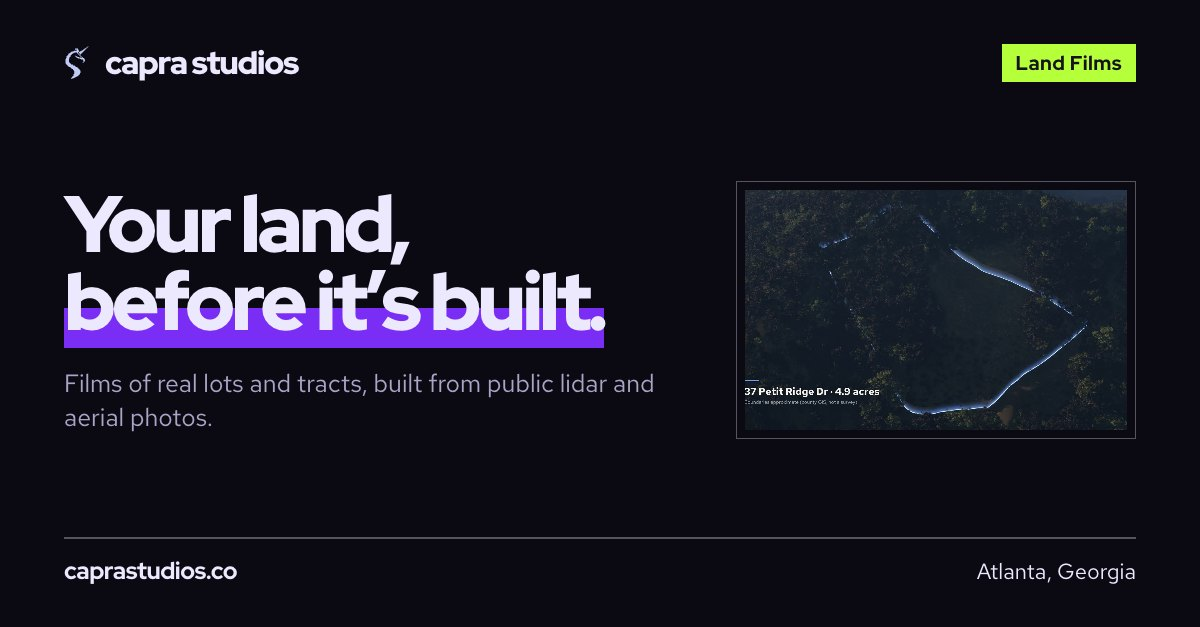
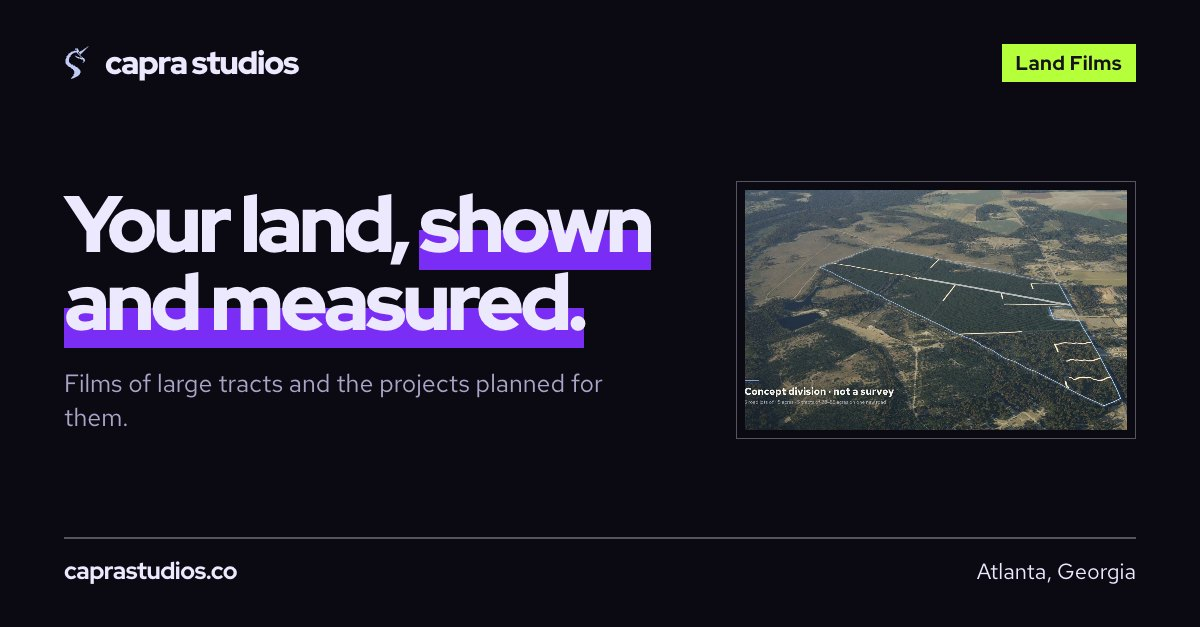
Rewrite the land films copy for large tracts, development sites and large projects
The Land Films page, the homepage column and section, the Work band, the facts page and the assistant's knowledge now sell to land and timber investors, developers of communities, commercial and industrial sites, and large projects such as data centers. The single lot becomes one line with its price. The Buckeye Road timber tract leads the pictures and the films.

Changed region(s): [[0.6167, 0.303, 0.9558, 0.697], [0.0308, 0.303, 0.555, 0.5758], [0.0617, 0.5758, 0.555, 0.697]]

diff --git a/land-films.html b/land-films.html
@@ -4,19 +4,19 @@
 <meta charset="utf-8">
 <meta name="viewport" content="width=device-width,initial-scale=1">
 <meta name="theme-color" content="#f3f1ea">
-<title>Land Films: 3D Lot &amp; Tract Films from Lidar — Capra Studios</title>
-<meta name="description" content="Films of real lots and tracts built from public lidar and aerial photos: the lot line on the ground, the land in contours, a measured view and a concept home.">
+<title>Land Films: Tracts, Developments &amp; Data Centers — Capra Studios</title>
+<meta name="description" content="Films of large tracts and the projects planned for them, built on the real ground from public lidar: timber tracts, development sites and data center campuses.">
 <link rel="canonical" href="https://bookee2.github.io/Caprastudios/land-films.html">
 <meta property="og:type" content="website">
 <meta property="og:site_name" content="Capra Studios">
-<meta property="og:title" content="Land Films: 3D Lot &amp; Tract Films from Lidar — Capra Studios">
-<meta property="og:description" content="Films of real lots and tracts built from public lidar and aerial photos: the lot line on the ground, the land in contours, a measured view and a concept home.">
+<meta property="og:title" content="Land Films: Tracts, Developments &amp; Data Centers — Capra Studios">
+<meta property="og:description" content="Films of large tracts and the projects planned for them, built on the real ground from public lidar: timber tracts, development sites and data center campuses.">
 <meta property="og:url" content="https://bookee2.github.io/Caprastudios/land-films.html">
 <meta property="og:locale" content="en_US">
 <meta property="og:image" content="https://bookee2.github.io/Caprastudios/assets/share/land-films.jpg">
 <meta property="og:image:width" content="1200">
 <meta property="og:image:height" content="627">
-<meta property="og:image:alt" content="Capra Studios land films: your land, before it’s built">
+<meta property="og:image:alt" content="Capra Studios land films: your land, shown and measured">
 <meta name="twitter:card" content="summary_large_image">
 <link rel="icon" href="assets/brand/favicon.svg">
 <link rel="apple-touch-icon" href="assets/brand/apple-touch-icon.png">
@@ -54,8 +54,8 @@
   },
   {
    "@type": "Service",
-   "name": "Land films for real estate",
-   "description": "Films of real lots and tracts built from public lidar and aerial photos, with the lot line, contours, a measured view study and labelled concept homes.",
+   "name": "Land films for tracts, developments and large projects",
+   "description": "Films of large tracts and planned projects built on the real ground from public lidar and aerial photos: property lines, tree cover, divisions, build-outs to scale, earthwork and line-of-sight studies.",
    "url": "https://bookee2.github.io/Caprastudios/land-films.html",
    "areaServed": "United States",
    "provider": {
@@ -66,7 +66,7 @@
    "offers": [
     {
      "@type": "Offer",
-     "name": "Lot film",
+     "name": "Single lot film",
      "price": "950",
      "priceCurrency": "USD"
     }
@@ -80,7 +80,7 @@
      "name": "How long does a film take?",
      "acceptedAnswer": {
       "@type": "Answer",
-      "text": "About a week from the address to a reviewed film. Most of that is checking the facts and your review; the film itself is built from data we can download the same day."
+      "text": "About a week for a single tract, from the parcel to a reviewed film. Most of that is checking the facts and your review. A development or a campus with a build-out takes longer, and we agree the timing before we start."
      }
     },
     {
@@ -88,23 +88,39 @@
      "name": "How accurate is it?",
      "acceptedAnswer": {
       "@type": "Answer",
-      "text": "The ground comes from USGS lidar at one metre and the trees are the real ones the lidar measured. Lot lines come from the county’s parcel map, which is approximate and not a survey, and the film says so on screen. Every figure carries the date of its data."
+      "text": "The ground comes from USGS lidar at one metre and the trees are the real ones the lidar measured. Property lines come from the county’s parcel map, which is approximate and not a survey, unless you send your survey. Every figure carries the date of its data. A film is an illustration: it is not a survey, a timber cruise or an appraisal."
      }
     },
     {
      "@type": "Question",
-     "name": "What if the county’s lines disagree with the listing?",
+     "name": "What if the county’s lines disagree with our records?",
      "acceptedAnswer": {
       "@type": "Answer",
-      "text": "It happens. We check the parcel against the listing before we build, quote the listing’s acreage and say that boundaries are approximate. If the difference is large we ask you before going further."
+      "text": "It happens. We draw from your survey when you send one. Otherwise we use the county’s parcel map, quote your acreage, say that boundaries are approximate and ask you before going further if the difference is large."
      }
     },
     {
      "@type": "Question",
-     "name": "Can it show a house that is not there?",
+     "name": "Can it show what is not built yet?",
      "acceptedAnswer": {
       "@type": "Answer",
-      "text": "Yes, as a concept home, and it is labelled as an artist’s rendering for every second it is on screen. The same goes for a concept division of a larger tract."
+      "text": "Yes. Buildings, roads and a division of lots that do not exist yet are labelled a concept, or illustrative, for every second they are on screen. If you send the real plan we build from it. If the layout is ours, the film says so."
+     }
+    },
+    {
+     "@type": "Question",
+     "name": "Can the location stay confidential?",
+     "acceptedAnswer": {
+      "@type": "Answer",
+      "text": "Yes. The tract itself stays real, but place names, road names and landmarks are left out, the surroundings are generalized so they cannot be matched to a map, and location data is stripped from the files. The tract’s own outline is real, so someone who already knows the property could recognize it."
+     }
+    },
+    {
+     "@type": "Question",
+     "name": "Can it carry our brand and disclosures?",
+     "acceptedAnswer": {
+      "@type": "Answer",
+      "text": "Yes. Your name, logo and colours go on the film, and any disclosure text goes on screen word for word. We do not review legal or securities compliance; that is for your counsel."
      }
     },
     {
@@ -120,7 +136,7 @@
      "name": "Who owns the film?",
      "acceptedAnswer": {
       "@type": "Answer",
-      "text": "You do, for the listing it was made for. We ask to show it as an example of our work."
+      "text": "You do. We show it as an example of our work only if you agree."
      }
     }
    ]
@@ -148,32 +164,38 @@
 </header>
 <main id="main" class="room films-page">
 <section class="page-top shell films-top">
-<div><h1>Your land, before it’s built.</h1>
-<p class="lead">Films of real lots and tracts, built from public lidar and aerial photos: the lot line on the ground, the land in contours, and the view from where a house would sit.</p>
-<p class="note">These are studio films made from real listings. We are taking our first commissions.</p>
-<a class="button" href="#parcel">Send a parcel ↓</a></div>
-<figure class="plate"><img src="assets/films/petit-ridge-blue-hour.jpg" width="1400" height="788" loading="lazy" decoding="async" alt="A concept cabin at blue hour with its lights on, on a wooded mountain lot"><figcaption><b>A concept home at blue hour</b><span>37 Petit Ridge Dr, Big Canoe, Georgia. An artist’s rendering, not an existing structure.</span></figcaption></figure>
+<div><h1>Your land, shown and measured.</h1>
+<p class="lead">Films of large tracts and the projects planned for them, built on the real ground from public lidar and aerial photos. For land and timber investors, developers of communities, commercial and industrial sites, and large projects such as data centers.</p>
+<p class="note">The two films on this page are studio films made from real listings.</p>
+<a class="button" href="#parcel">Send a tract ↓</a></div>
+<figure class="plate"><img src="assets/films/buckeye-road-concept-division.jpg" width="1400" height="788" loading="lazy" decoding="async" alt="A large timber tract seen from the air, outlined, with a concept division into lots and tracts drawn on it"><figcaption><b>A 268-acre tract, outlined and divided</b><span>Buckeye Road Tract, Laurens County, Georgia. The division is a concept, not a survey.</span></figcaption></figure>
+</section>
+
+<section class="block shell" id="kinds" aria-labelledby="kinds-title">
+<div class="block-head"><h2 id="kinds-title">Three kinds of land.</h2><p>Each film is built for the decision it has to support: an investment, an approval or a sale.</p></div>
+<ol class="rows compact" aria-label="Who the films are for">
+<li style="--c:var(--ribbon)"><h3><span>Timber and investment tracts</span></h3><div><p>For funds, owners and the brokers who sell for them. The tract outlined, its tree cover by type, road frontage and access, water, and a division drawn from your survey or labelled as a concept.</p><p>A tract can stay anonymous, with your brand and your disclosures on screen as you wrote them.</p></div></li>
+<li style="--c:var(--ribbon)"><h3><span>Communities, commercial and industrial sites</span></h3><div><p>For developers and builders. The site as it stands today, then cleared, graded and built out to scale on the real ground: roads, pads, buildings and phases.</p></div></li>
+<li style="--c:var(--ribbon)"><h3><span>Data centers and other large projects</span></h3><div><p>For developers, and for the hearings a project has to pass. The campus rises in phase order beside the power lines and creeks that are really there.</p><p>The film gives the earth moved, the acres cleared and what can be seen from the road, measured through the real trees, then pulls back to show the distance to power, highways and towns.</p></div></li>
+</ol>
 </section>
 
 <section class="block shell" id="shows" aria-labelledby="shows-title">
-<div class="block-head"><h2 id="shows-title">What a drone can’t show.</h2><p>A drone shows what a lot looks like today from the air. A buyer deciding on land needs to know where the line runs, how the ground falls, and what they would see from the porch.</p></div>
+<div class="block-head"><h2 id="shows-title">What a drone can’t show.</h2><p>A drone shows what land looks like today from the air. An investor, a buyer or a planning board needs to know where the line runs, what stands on it, how the ground falls and what a project will look like from the road.</p></div>
 <div class="plate-grid">
-<figure class="plate"><img src="assets/films/petit-ridge-lot-line.jpg" width="1400" height="788" loading="lazy" decoding="async" alt="A wooded lot at dusk with its boundary drawn on the ground as a glowing blue line"><figcaption><b>The lot line, on the ground</b><span>Drawn from the county parcel map and labelled approximate.</span></figcaption></figure>
-<figure class="plate"><img src="assets/films/petit-ridge-elevation.jpg" width="1400" height="788" loading="lazy" decoding="async" alt="The same lot with leaves off and glowing contour lines over the ground"><figcaption><b>The land, read in contours</b><span>Elevation across the lot, measured from the lidar.</span></figcaption></figure>
-<figure class="plate"><img src="assets/films/petit-ridge-view-study.jpg" width="1400" height="788" loading="lazy" decoding="async" alt="A forested valley with the visible part of a lake painted in"><figcaption><b>The view, measured</b><span>How much of the lake is in sight from the deck, through the real trees.</span></figcaption></figure>
-<figure class="plate"><img src="assets/films/petit-ridge-concept-home.jpg" width="1400" height="788" loading="lazy" decoding="async" alt="A cabin appearing in a forest clearing, labelled as a concept home"><figcaption><b>A concept home, labelled</b><span>An artist’s rendering on a pad that fits inside the lines.</span></figcaption></figure>
-<figure class="plate"><img src="assets/films/petit-ridge-winter-view.jpg" width="1400" height="788" loading="lazy" decoding="async" alt="A long view over blue ridges to a lake, seen through bare trees"><figcaption><b>The winter view, in any season</b><span>Leaves down, so the buyer sees what January looks like.</span></figcaption></figure>
-<figure class="plate"><img src="assets/films/buckeye-road-concept-division.jpg" width="1400" height="788" loading="lazy" decoding="async" alt="A large timber tract seen from the air with a concept division into lots and tracts drawn on it"><figcaption><b>Tracts and timber</b><span>Stands, acreage, frontage and a concept division, labelled as not a survey.</span></figcaption></figure>
+<figure class="plate"><img src="assets/films/buckeye-road-plantation.jpg" width="1400" height="788" loading="lazy" decoding="async" alt="Rows of planted pine on a timber tract, seen from low over the canopy"><figcaption><b>The timber, tree by tree</b><span>The trees in the film are the ones the lidar measured, at their measured heights.</span></figcaption></figure>
+<figure class="plate"><img src="assets/films/petit-ridge-elevation.jpg" width="1400" height="788" loading="lazy" decoding="async" alt="Wooded land with leaves off and glowing contour lines over the ground"><figcaption><b>The ground, read in contours</b><span>Elevation across the land, measured from the lidar.</span></figcaption></figure>
+<figure class="plate"><img src="assets/films/petit-ridge-view-study.jpg" width="1400" height="788" loading="lazy" decoding="async" alt="A forested valley with the visible part of a lake painted in"><figcaption><b>What can be seen, measured</b><span>A line-of-sight study through the real tree canopy.</span></figcaption></figure>
 </div>
 </section>
 
 <section class="block shell" id="films" aria-labelledby="full-title">
 <div class="block-head"><h2 id="full-title">Two films in full.</h2><p>Eighty seconds each, with sound recorded in the same kind of country. Press play.</p></div>
 <div class="film-pair">
-<figure><div class="film-frame"><video id="film-petit" class="project-film" controls playsinline preload="none" poster="assets/films/petit-ridge-film-poster.jpg" aria-label="Petit Ridge land film: a flight up a wooded valley to a mountain lot, its boundary, its contours, a concept cabin and the lake view"><source src="assets/films/petit-ridge-film.mp4" type="video/mp4"><a href="assets/films/petit-ridge-film.mp4">Watch the Petit Ridge film</a></video><button class="film-play" data-play-film="film-petit" aria-controls="film-petit" hidden><span aria-hidden="true">▶</span> Play with sound</button></div>
-<figcaption><b>A mountain lot</b><span>37 Petit Ridge Dr, Big Canoe, Georgia · 4.9 acres. Terrain and trees from USGS 3DEP lidar, imagery from USDA NAIP and Copernicus Sentinel-2, roads © OpenStreetMap contributors. The cabin is a concept home.</span></figcaption></figure>
 <figure><div class="film-frame"><video id="film-buckeye" class="project-film" controls playsinline preload="none" poster="assets/films/buckeye-road-film-poster.jpg" aria-label="Buckeye Road land film: a flight over a pine timber tract in Georgia with its stands, frontage and a concept division"><source src="assets/films/buckeye-road-film.mp4" type="video/mp4"><a href="assets/films/buckeye-road-film.mp4">Watch the Buckeye Road film</a></video><button class="film-play" data-play-film="film-buckeye" aria-controls="film-buckeye" hidden><span aria-hidden="true">▶</span> Play with sound</button></div>
 <figcaption><b>A timber tract</b><span>Buckeye Road Tract, Laurens County, Georgia · 268 acres listed. Lidar flown January 2019, aerial photos July 2025, roads © OpenStreetMap contributors. The division shown is a concept, not a survey or a plat.</span></figcaption></figure>
+<figure><div class="film-frame"><video id="film-petit" class="project-film" controls playsinline preload="none" poster="assets/films/petit-ridge-film-poster.jpg" aria-label="Petit Ridge land film: a flight up a wooded valley to a mountain lot, its boundary, its contours, a concept cabin and the lake view"><source src="assets/films/petit-ridge-film.mp4" type="video/mp4"><a href="assets/films/petit-ridge-film.mp4">Watch the Petit Ridge film</a></video><button class="film-play" data-play-film="film-petit" aria-controls="film-petit" hidden><span aria-hidden="true">▶</span> Play with sound</button></div>
+<figcaption><b>A single lot</b><span>37 Petit Ridge Dr, Big Canoe, Georgia · 4.9 acres. Terrain and trees from USGS 3DEP lidar, imagery from USDA NAIP and Copernicus Sentinel-2, roads © OpenStreetMap contributors. The cabin is a concept home.</span></figcaption></figure>
 </div>
 <p class="after-grid">We have also made 100+ full-length terrain films for TrailGoat. <a class="text-link" href="https://trailgoat.run/films" target="_blank" rel="noopener noreferrer">See them at trailgoat.run ↗<span class="sr-only"> (opens in a new tab)</span></a></p>
 </section>
@@ -182,31 +204,35 @@
 <div class="block-head"><h2 id="sources-title">Where every figure comes from.</h2><p>Nothing goes on screen that we can’t source. That rule is the product.</p></div>
 <ol class="rows compact" aria-label="Sources and labels">
 <li style="--c:var(--ribbon)"><h3><span>The ground and the trees</span></h3><div><p>USGS lidar at one metre. The trees in the film are the ones the lidar measured, at the heights it measured, with the flight date stated.</p></div></li>
-<li style="--c:var(--ribbon)"><h3><span>The lot line</span></h3><div><p>The county’s parcel map, labelled “boundaries approximate (county GIS, not a survey)” whenever the line or the acreage is on screen.</p></div></li>
-<li style="--c:var(--ribbon)"><h3><span>The view</span></h3><div><p>A line-of-sight study through the real tree canopy from where a deck would sit. On Petit Ridge, bare ground suggested most of the lake was in view. Through the measured trees it was about a fifth, and that is what the film says.</p></div></li>
-<li style="--c:var(--ribbon)"><h3><span>Anything not built yet</span></h3><div><p>A house or a division of lots that does not exist is labelled a concept for as long as it is on screen.</p></div></li>
+<li style="--c:var(--ribbon)"><h3><span>The property line</span></h3><div><p>Your survey when you send one. Otherwise the county’s parcel map, labelled “boundaries approximate (county GIS, not a survey)” whenever the line or the acreage is on screen.</p></div></li>
+<li style="--c:var(--ribbon)"><h3><span>What can be seen</span></h3><div><p>A line-of-sight study through the real tree canopy, from the road or from any point on the land. On one mountain lot, bare ground suggested most of a lake was in view. Through the measured trees it was about a fifth, and that is what the film says.</p></div></li>
+<li style="--c:var(--ribbon)"><h3><span>Earth moved and land cleared</span></h3><div><p>Cut, fill and acres disturbed are worked out from the lidar ground and the layout on screen. They describe that layout. They are not an engineer’s design.</p></div></li>
+<li style="--c:var(--ribbon)"><h3><span>Anything not built yet</span></h3><div><p>Buildings, roads or a division of lots that do not exist yet are labelled a concept, or illustrative, for as long as they are on screen.</p></div></li>
 </ol>
 </section>
 
 <section class="block shell" id="parcel" aria-labelledby="parcel-title"><div class="audit-grid">
-<div><h2 id="parcel-title">Send a parcel.</h2><p>An address or a county parcel ID is enough. We check the lot against the listing and tell you what the film can show before you commit.</p>
-<p>You receive the 16:9 film, a vertical cut for social and six stills.</p></div>
+<div><h2 id="parcel-title">Send a tract.</h2><p>Parcel IDs, a survey or a site plan is enough. We check the land against the public records and tell you what the film can show before you commit.</p>
+<p>You receive the film in 16:9, a cut for social and stills, with your brand on it if you want it there.</p></div>
 <div>
-<div class="rate-card"><h3>Lot film</h3><p class="rate"><b>$950</b></p><p class="note">One lot or homesite, about 80 seconds, with the cuts and stills above.</p></div>
-<div class="rate-card"><h3>Tracts, timber and communities</h3><p class="note">Quoted by size and what the film has to show.</p></div>
-<a class="button" href="contact.html?kind=film">Send a parcel →</a>
+<div class="rate-card"><h3>Tracts and timber</h3><p class="note">Quoted by acreage and what the film has to show.</p></div>
+<div class="rate-card"><h3>Development sites, data centers and large projects</h3><p class="note">Quoted. A longer film with the build-out, the measurements and the regional view.</p></div>
+<div class="rate-card"><h3>A single lot</h3><p class="note">$950. One lot or homesite, about 80 seconds, with a vertical cut and six stills.</p></div>
+<a class="button" href="contact.html?kind=film">Send a tract →</a>
 </div>
 </div></section>
 
 <section class="faq shell" aria-labelledby="faq-title">
 <div><h2 id="faq-title">Good questions.</h2></div>
 <div>
-<details><summary>How long does a film take?<span>+</span></summary><p>About a week from the address to a reviewed film. Most of that is checking the facts and your review; the film itself is built from data we can download the same day.</p></details>
-<details><summary>How accurate is it?<span>+</span></summary><p>The ground comes from USGS lidar at one metre and the trees are the real ones the lidar measured. Lot lines come from the county’s parcel map, which is approximate and not a survey, and the film says so on screen. Every figure carries the date of its data.</p></details>
-<details><summary>What if the county’s lines disagree with the listing?<span>+</span></summary><p>It happens. We check the parcel against the listing before we build, quote the listing’s acreage and say that boundaries are approximate. If the difference is large we ask you before going further.</p></details>
-<details><summary>Can it show a house that is not there?<span>+</span></summary><p>Yes, as a concept home, and it is labelled as an artist’s rendering for every second it is on screen. The same goes for a concept division of a larger tract.</p></details>
+<details><summary>How long does a film take?<span>+</span></summary><p>About a week for a single tract, from the parcel to a reviewed film. Most of that is checking the facts and your review. A development or a campus with a build-out takes longer, and we agree the timing before we start.</p></details>
+<details><summary>How accurate is it?<span>+</span></summary><p>The ground comes from USGS lidar at one metre and the trees are the real ones the lidar measured. Property lines come from the county’s parcel map, which is approximate and not a survey, unless you send your survey. Every figure carries the date of its data. A film is an illustration: it is not a survey, a timber cruise or an appraisal.</p></details>
+<details><summary>What if the county’s lines disagree with our records?<span>+</span></summary><p>It happens. We draw from your survey when you send one. Otherwise we use the county’s parcel map, quote your acreage, say that boundaries are approximate and ask you before going further if the difference is large.</p></details>
+<details><summary>Can it show what is not built yet?<span>+</span></summary><p>Yes. Buildings, roads and a division of lots that do not exist yet are labelled a concept, or illustrative, for every second they are on screen. If you send the real plan we build from it. If the layout is ours, the film says so.</p></details>
+<details><summary>Can the location stay confidential?<span>+</span></summary><p>Yes. The tract itself stays real, but place names, road names and landmarks are left out, the surroundings are generalized so they cannot be matched to a map, and location data is stripped from the files. The tract’s own outline is real, so someone who already knows the property could recognize it.</p></details>
+<details><summary>Can it carry our brand and disclosures?<span>+</span></summary><p>Yes. Your name, logo and colours go on the film, and any disclosure text goes on screen word for word. We do not review legal or securities compliance; that is for your counsel.</p></details>
 <details><summary>Can I use it on the MLS?<span>+</span></summary><p>MLS rules on rendered media differ from one system to the next. We check your MLS’s rules with you and, where they allow it, prepare a version for it with every rendered element labelled.</p></details>
-<details><summary>Who owns the film?<span>+</span></summary><p>You do, for the listing it was made for. We ask to show it as an example of our work.</p></details>
+<details><summary>Who owns the film?<span>+</span></summary><p>You do. We show it as an example of our work only if you agree.</p></details>
 </div>
 </section>
 <section class="contact shell" id="contact" aria-labelledby="contact-title">

diff --git a/index.html b/index.html
@@ -5,12 +5,12 @@
 <meta name="viewport" content="width=device-width,initial-scale=1">
 <meta name="theme-color" content="#f3f1ea">
 <title>Capra Studios — AI Systems, Web Apps &amp; Land Films in Atlanta</title>
-<meta name="description" content="A small but mighty studio in Atlanta. Capra builds AI systems and custom web applications, and films real lots and tracts from public lidar and aerial photos.">
+<meta name="description" content="A small but mighty studio in Atlanta. Capra builds AI systems and custom web applications, and films large tracts and planned projects on the real ground.">
 <link rel="canonical" href="https://bookee2.github.io/Caprastudios/">
 <meta property="og:type" content="website">
 <meta property="og:site_name" content="Capra Studios">
 <meta property="og:title" content="Capra Studios — AI Systems, Web Apps &amp; Land Films in Atlanta">
-<meta property="og:description" content="A small but mighty studio in Atlanta. Capra builds AI systems and custom web applications, and films real lots and tracts from public lidar and aerial photos.">
+<meta property="og:description" content="A small but mighty studio in Atlanta. Capra builds AI systems and custom web applications, and films large tracts and planned projects on the real ground.">
 <meta property="og:url" content="https://bookee2.github.io/Caprastudios/">
 <meta property="og:locale" content="en_US">
 <meta property="og:image" content="https://bookee2.github.io/Caprastudios/assets/share/home.jpg">
@@ -153,7 +153,7 @@
 <div class="hero-art proof-art">
 <span class="tape" aria-hidden="true"></span>
 <a class="paste" href="trailgoat.html" aria-label="Open the TrailGoat project"><img src="assets/work/trailgoat-current.jpg" width="1440" height="980" alt="TrailGoat, a trail-running planner built by Capra: a course drawn over 3D terrain with a live readout of mile, elevation, grade and the next aid station" fetchpriority="high"><span class="sticker">live at<br>trailgoat.run</span></a>
-<a class="hero-plate" href="land-films.html" aria-label="See the land films"><img src="assets/films/petit-ridge-lot-line.jpg" width="1400" height="788" alt="A wooded mountain lot at dusk seen from the air, with its boundary drawn on the ground as a glowing blue line"><span>a land film: the lot line, drawn on the ground</span></a>
+<a class="hero-plate" href="land-films.html" aria-label="See the land films"><img src="assets/films/buckeye-road-film-poster.jpg" width="1400" height="788" alt="The opening frame of a land film: a timber tract beside a pond, titled Buckeye Road Tract, 268 acres of timberland"><span>a land film: 268 acres of Georgia timberland</span></a>
 <p class="hand hero-note">1,000+ race courses and counting ↑</p>
 </div>
 </section>
@@ -185,17 +185,17 @@
 <div class="line-actions"><a class="button" href="web-apps.html">See the software →</a><a class="text-link" href="contact.html?kind=apps">Book a free consultation</a></div>
 </div></article>
 <article class="line room" aria-labelledby="films-line-title"><div class="line-in">
-<p class="line-who">For brokers, builders and anyone selling land</p>
+<p class="line-who">For land investors, developers and large projects</p>
 <h2 id="films-line-title">Land films</h2>
-<p class="line-lead">A real lot or tract, filmed before anything is built on it, from public lidar and aerial photos.</p>
+<p class="line-lead">A tract shown as it stands and as it is planned, measured on the real ground from public lidar and aerial photos.</p>
 <ul class="line-list">
-<li><b>The lot line</b><span>Drawn on the ground from the county’s parcel map.</span></li>
-<li><b>The land</b><span>The real ground and trees, read in contours.</span></li>
-<li><b>The view</b><span>Measured from where a house would sit.</span></li>
-<li><b>A concept home</b><span>Optional, and labelled a concept.</span></li>
-<li><b>The cuts</b><span>A 16:9 film, a vertical cut for social and six stills.</span></li>
+<li><b>Timber and investment tracts</b><span>The tract outlined, with its tree cover, road frontage, water and a division.</span></li>
+<li><b>Development sites</b><span>Communities, commercial and industrial land, cleared, graded and built out to scale.</span></li>
+<li><b>Data centers and large projects</b><span>The campus rising in phases beside the power lines and creeks that are really there.</span></li>
+<li><b>Measured</b><span>Earth moved, acres cleared and what can be seen from the road.</span></li>
+<li><b>Confidential when needed</b><span>A tract can stay anonymous, with your brand and disclosures on screen.</span></li>
 </ul>
-<div class="line-actions"><a class="button" href="land-films.html">See the land films →</a><a class="text-link" href="contact.html?kind=film">Send a parcel</a></div>
+<div class="line-actions"><a class="button" href="land-films.html">See the land films →</a><a class="text-link" href="contact.html?kind=film">Send a tract</a></div>
 </div></article>
 </section>
 
@@ -233,10 +233,10 @@
 </section>
 
 <section class="films-strip room" id="films" aria-labelledby="films-title"><div class="shell strip-grid">
-<div><h2 id="films-title">Land films.</h2><p>Films of real lots and tracts, built from public lidar and aerial photos: the lot line on the ground, the land in contours, the view from where a house would sit.</p><p>Two films play in full on their own page. We have also made 100+ full-length terrain films for TrailGoat.</p><div class="strip-actions"><a class="button" href="land-films.html">Watch the land films →</a><a class="text-link" href="contact.html?kind=film">Send a parcel</a></div></div>
+<div><h2 id="films-title">Land films.</h2><p>Films of large tracts and the projects planned for them, built on the real ground from public lidar and aerial photos: the property line, the timber, a division, a build-out to scale and what can be seen from the road.</p><p>Two films play in full on their own page. We have also made 100+ full-length terrain films for TrailGoat.</p><div class="strip-actions"><a class="button" href="land-films.html">Watch the land films →</a><a class="text-link" href="contact.html?kind=film">Send a tract</a></div></div>
 <div class="strip-plates">
-<figure class="plate"><img src="assets/films/petit-ridge-elevation.jpg" width="1400" height="788" loading="lazy" decoding="async" alt="A wooded mountain lot with leaves off and glowing contour lines over the ground"><figcaption><b>The land, read in contours</b><span>Elevation across the lot, measured from the lidar.</span></figcaption></figure>
-<figure class="plate"><img src="assets/films/petit-ridge-view-study.jpg" width="1400" height="788" loading="lazy" decoding="async" alt="A forested valley with the visible part of a lake painted in"><figcaption><b>The view, measured</b><span>How much of the lake is in sight from the deck, through the real trees.</span></figcaption></figure>
+<figure class="plate"><img src="assets/films/buckeye-road-concept-division.jpg" width="1400" height="788" loading="lazy" decoding="async" alt="A large timber tract seen from the air, outlined, with a concept division into lots and tracts drawn on it"><figcaption><b>A tract, outlined and divided</b><span>Buckeye Road Tract, Georgia, 268 acres. The division is a concept, not a survey.</span></figcaption></figure>
+<figure class="plate"><img src="assets/films/buckeye-road-plantation.jpg" width="1400" height="788" loading="lazy" decoding="async" alt="Rows of planted pine on a timber tract, seen from low over the canopy"><figcaption><b>The timber, tree by tree</b><span>Every tree in the film is one the lidar measured.</span></figcaption></figure>
 </div>
 </div></section>
 

diff --git a/facts.html b/facts.html
@@ -85,7 +85,7 @@
      },
      {
       "@type": "Offer",
-      "name": "Lot film",
+      "name": "Land film of a single lot",
       "price": "950",
       "priceCurrency": "USD",
       "url": "https://bookee2.github.io/Caprastudios/land-films.html",
@@ -141,9 +141,9 @@
 <p>Portals, dashboards, internal tools and products: designed, built and tested, and connected to the data and software a business already runs.</p>
 <p>Work starts with a free consultation, then a product sprint: a working prototype, a written scope and a fixed quote. The build is quoted after the sprint: six to twelve weeks for most applications, paid by milestone. Monthly care is optional.</p>
 <a class="text-link" href="web-apps.html">Web Apps →</a></div></li>
-<li style="--c:var(--koi)" id="films"><h3><span>Land films</span><small>Real lots and tracts, before anything is built</small></h3><div>
-<p>Films of real lots and tracts, built from public lidar and aerial photos: the lot line on the ground, the land in contours, a measured view study and an optional labelled concept home.</p>
-<p>A lot film covers one lot or homesite in about 80 seconds and comes with a vertical cut for social and six stills. A film is an illustration, not a survey.</p>
+<li style="--c:var(--koi)" id="films"><h3><span>Land films</span><small>For land investors, developers and large projects</small></h3><div>
+<p>Films of large tracts and the projects planned for them, built on the real ground from public lidar and aerial photos: the property line, tree cover, road frontage, a division, a build-out to scale and what can be seen from the road.</p>
+<p>Made for timber and investment tracts, communities, commercial and industrial sites, and large projects such as data centers. A tract can stay anonymous. A film is an illustration, not a survey, a timber cruise or an appraisal.</p>
 <a class="text-link" href="land-films.html">Land Films →</a></div></li>
 <li style="--c:var(--koi)" id="prices"><h3><span>Prices</span><small>US dollars, as published in November 2026</small></h3><div>
 <div class="fact-scroll"><table class="fact-table">
@@ -151,8 +151,8 @@
 <tbody>
 <tr><th scope="row">AI systems</th><td>Quoted</td><td>Starts with a free consultation. The work is then scoped and quoted for the business.</td></tr>
 <tr><th scope="row">Web applications</th><td>Quoted</td><td>Starts with a free consultation. The work is then scoped and quoted for the business.</td></tr>
-<tr><th scope="row">Lot film</th><td>$950</td><td>One lot or homesite, about 80 seconds, with a vertical cut and six stills.</td></tr>
-<tr><th scope="row">Films of tracts, timber and communities</th><td>Quoted</td><td>By size and what the film has to show.</td></tr>
+<tr><th scope="row">Land films of tracts, development sites and large projects</th><td>Quoted</td><td>By acreage and what the film has to show.</td></tr>
+<tr><th scope="row">Land film of a single lot</th><td>$950</td><td>One lot or homesite, about 80 seconds, with a vertical cut and six stills.</td></tr>
 </tbody></table></div>
 <p>Capra does not publish prices for AI systems or web applications.</p></div></li>
 <li style="--c:var(--koi)" id="proof"><h3><span>Work you can check</span></h3><div>
@@ -166,7 +166,7 @@
 <li style="--c:var(--koi)" id="method"><h3><span>How Capra works</span></h3><div>
 <ul class="fact-list">
 <li>Measure first. The AI work is led by a Six Sigma Green Belt, and how the work runs today is logged before anything is built.</li>
-<li>AI and software work starts with a free consultation. A land film starts with one lot.</li>
+<li>AI and software work starts with a free consultation. A land film starts with one tract.</li>
 <li>Code, documents, accounts and keys are in the client’s name from the start.</li>
 <li>Anything a system does that moves money, deletes something or contacts a customer waits for a person.</li>
 </ul></div></li>

diff --git a/contact.html b/contact.html
@@ -5,12 +5,12 @@
 <meta name="viewport" content="width=device-width,initial-scale=1">
 <meta name="theme-color" content="#f3f1ea">
 <title>Contact Capra Studios: Book a Free Consultation</title>
-<meta name="description" content="Book a free consultation with Capra Studios about an AI system or a web application, or send a parcel for a land film. Kris replies by email.">
+<meta name="description" content="Book a free consultation with Capra Studios about an AI system or a web application, or send a tract for a land film. Kris replies by email.">
 <link rel="canonical" href="https://bookee2.github.io/Caprastudios/contact.html">
 <meta property="og:type" content="website">
 <meta property="og:site_name" content="Capra Studios">
 <meta property="og:title" content="Contact Capra Studios: Book a Free Consultation">
-<meta property="og:description" content="Book a free consultation with Capra Studios about an AI system or a web application, or send a parcel for a land film. Kris replies by email.">
+<meta property="og:description" content="Book a free consultation with Capra Studios about an AI system or a web application, or send a tract for a land film. Kris replies by email.">
 <meta property="og:url" content="https://bookee2.github.io/Caprastudios/contact.html">
 <meta property="og:locale" content="en_US">
 <meta property="og:image" content="https://bookee2.github.io/Caprastudios/assets/share/contact.jpg">
@@ -88,7 +88,7 @@
 <main id="main">
 <section class="page-top shell sentence">
 <h1>Start a conversation.</h1>
-<p class="lead">Ask for a free consultation about an AI system or a web application, or send a parcel for a land film. A few lines is enough. Kris reads every brief and replies himself.</p>
+<p class="lead">Ask for a free consultation about an AI system or a web application, or send a tract for a land film. A few lines is enough. Kris reads every brief and replies himself.</p>
 </section>
 <section class="shell contact-grid" aria-label="Project brief">
 <form class="brief-form" id="contact-form">
@@ -97,7 +97,7 @@
 <label>Business or team<input name="company" autocomplete="organization" maxlength="160"></label>
 <label>What is it about?<select name="kind"><option>AI systems</option><option>A web application</option><option>A land film</option><option>Not sure yet</option></select></label>
 <label>What would you like to build, improve or film?<textarea name="goal" rows="5" maxlength="1500" required></textarea></label>
-<label data-for-kind="A land film">Address or parcel ID, and the listing link if there is one<input name="parcel" maxlength="300"></label>
+<label data-for-kind="A land film">Parcel IDs or an address, and a survey or site plan if you have one<input name="parcel" maxlength="300"></label>
 <label>Budget range<select name="budget"><option>Not sure yet</option><option>Under $5,000</option><option>$5,000–$15,000</option><option>$15,000–$50,000</option><option>$50,000+</option></select></label>
 <label>Ideal timing<input name="timeline" maxlength="120" placeholder="A target date, or still exploring"></label>
 <label class="consent"><input name="consent" type="checkbox" required><span>Kris may contact me about this project using the details I provide. <a href="privacy.html">Privacy</a></span></label>
@@ -112,7 +112,7 @@
 <ol class="next-steps">
 <li>Kris reads your brief and replies by email.</li>
 <li>A free consultation: a short call to understand the job.</li>
-<li>A written scope and a quote. For a land film, we tell you what the film can show on your lot before you commit.</li>
+<li>A written scope and a quote. For a land film, we tell you what the film can show on your land before you commit.</li>
 </ol>
 <p class="note">Capra is in Atlanta and works with businesses across the United States.</p>
 </aside>

diff --git a/work.html b/work.html
@@ -106,8 +106,8 @@
 <a class="paste" href="trailgoat.html" aria-label="Open the TrailGoat project"><img data-project-image="trailgoat" src="assets/work/trailgoat-current.jpg" width="1440" height="980" decoding="async" alt="TrailGoat’s trail-running website, with course planning and fueling tools"><span class="sticker">live at<br>trailgoat.run</span></a>
 </div></article>
 <article class="band room flip" aria-labelledby="films-title"><div class="shell band-grid">
-<div><h2 class="field-title" id="films-title">Land films</h2><p>Films of real lots and tracts, built from public lidar and aerial photos. Two play in full on their own page.</p><a class="text-link" href="land-films.html">See the land films →</a></div>
-<figure class="plate"><img src="assets/films/petit-ridge-lot-line.jpg" width="1400" height="788" loading="lazy" decoding="async" alt="A wooded mountain lot at dusk seen from the air, with its boundary drawn on the ground as a glowing blue line"><figcaption><b>The lot line, drawn on the ground</b><span>37 Petit Ridge Dr, Big Canoe, Georgia. A studio film made from public data.</span></figcaption></figure>
+<div><h2 class="field-title" id="films-title">Land films</h2><p>Films of large tracts and the projects planned for them, built on the real ground from public lidar and aerial photos. Two play in full on their own page.</p><a class="text-link" href="land-films.html">See the land films →</a></div>
+<figure class="plate"><img src="assets/films/buckeye-road-concept-division.jpg" width="1400" height="788" loading="lazy" decoding="async" alt="A large timber tract seen from the air, outlined, with a concept division into lots and tracts drawn on it"><figcaption><b>A timber tract, outlined and divided</b><span>Buckeye Road Tract, Laurens County, Georgia. A studio film made from public data. The division is a concept, not a survey.</span></figcaption></figure>
 </div></article>
 <article class="band field f-uv" aria-labelledby="squirrel-title"><div class="shell band-grid">
 <div><h2 class="field-title" id="squirrel-title">Purple Squirrel</h2><p>Submittal software for staffing agencies: a screened candidate goes from a recruiter’s desk to a client’s review the same afternoon.</p><a class="text-link" href="purple-squirrel.html">Read the Purple Squirrel story →</a></div>

diff --git a/assets/agent.js b/assets/agent.js
@@ -9,7 +9,7 @@
  // Must match knowledgeVersion in server/knowledge.mjs. An assistant deployed with older knowledge is not used.
  const KNOWLEDGE='2026-11-19';
  const answers={
- services:{question:'What can Capra help with?',text:'Capra builds AI systems and custom web applications that connect to the data and software you already run, and makes land films of real lots and tracts. You work directly with Kris Brown in Atlanta. AI and software work starts with a free consultation.',link:'index.html#lines',label:'What we build'},
+ services:{question:'What can Capra help with?',text:'Capra builds AI systems and custom web applications that connect to the data and software you already run, and makes land films of large tracts and the projects planned for them. You work directly with Kris Brown in Atlanta. AI and software work starts with a free consultation.',link:'index.html#lines',label:'What we build'},
  ai:{question:'How could AI help my business?',text:'Start with one repeated workflow and measure it before anything is built. Capra’s AI systems are a Second Brain for a person or a team, a Third Brain for the whole company, Agents and Automation for customer service, email, communications and social media, Reporting and Monitoring, and an AI OS Hub that brings them together. They suit a business of any size. It starts with a free consultation.',link:'ai-consulting.html',label:'AI systems'},
  rag:{question:'What is a second brain?',text:'A second brain is an AI knowledge base for one person or one team: notes, documents, decisions and meetings you can ask, with a source on every answer. A third brain is the shared version for the whole company, with permissions by role. This guide only covers public studio information.',link:'ai-consulting.html',label:'Second and third brain'},
  work:{question:'Can I see examples?',text:'Explore TrailGoat, a planning tool for trail runners, and Purple Squirrel, submittal software for staffing agencies. Both are Capra’s own products, not client commissions.',link:'work.html',label:'Selected work'}

diff --git a/about.html b/about.html
@@ -101,7 +101,7 @@
 <section class="story shell"><h2>You talk to the people doing the work.</h2><p class="lead">Designers, engineers and AI builders come together around your project. There is no account team in between: the person who scopes the job is the person who builds it.</p></section>
 <section class="shell" aria-label="How we think"><ol class="rows compact">
 <li style="--c:var(--koi)"><h3><span>Measure first.</span></h3><div><p>Our AI work is led by a Six Sigma Green Belt. Before anything is built we log how the work runs today, so the result can be held against a real number.</p></div></li>
-<li style="--c:var(--koi)"><h3><span>Start small.</span></h3><div><p>AI and software work starts with a free consultation, then something small you can judge: an audit, a workshop or a product sprint. A land film starts with one lot.</p></div></li>
+<li style="--c:var(--koi)"><h3><span>Start small.</span></h3><div><p>AI and software work starts with a free consultation, then something small you can judge: an audit, a workshop or a product sprint. A land film starts with one tract.</p></div></li>
 <li style="--c:var(--koi)"><h3><span>You own it.</span></h3><div><p>Code, documents, accounts and keys are in your name from the start. You can run what we build without us.</p></div></li>
 <li style="--c:var(--koi)"><h3><span>Nothing we can’t source.</span></h3><div><p>Every number we show you, in a report or on a film, says where it came from.</p></div></li>
 <li style="--c:var(--koi)"><h3><span>People approve what matters.</span></h3><div><p>Anything a system does that moves money, deletes something or contacts a customer waits for a person.</p></div></li>

diff --git a/docs/BRAND.md b/docs/BRAND.md
@@ -54,7 +54,7 @@ The oversized 900-weight typography is a deliberate departure from the tool-orie
 
 ## Voice — current direction, November 17, 2026
 
-An independent studio in Atlanta that builds AI systems and web applications and makes land films. Since November 19, 2026 the three lines have equal billing. Land Films keeps its own dark page and sits third in the navigation. Capra no longer sells websites or the Marketing HQ.
+An independent studio in Atlanta that builds AI systems and web applications and makes land films. Since November 19, 2026 the three lines have equal billing. Land Films keeps its own dark page and sits third in the navigation. Its copy sells to large-tract and timber investors, developers of communities, commercial and industrial sites, and large projects such as data centers. The single lot is a footnote, not the pitch. Capra no longer sells websites or the Marketing HQ.
 
 Headline: **AI systems, web apps and land films that earn their keep.**
 Sign-off: **Imagination. Made tangible.**
